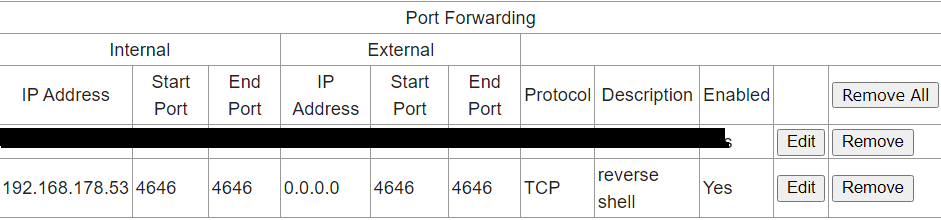
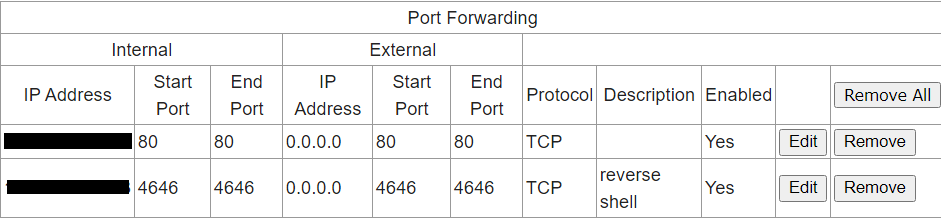
edit

diff --git a/phishing.md b/phishing.md
@@ -19,19 +19,19 @@ en te versturen staat hieronder uitgelegd:<br />
 Allereerst heb ik GoPhish gedownload via het commando ``go get github.com/gophish/gophish``. 
 Als je in de map gaat waar het gedownload is bevindt zich een bestand genaamd ***gophish***, voor deze uit door: ```./gophish```
 in te voeren. In de terminal krijg je te zien dat GoPhish opstart en je hem kan bereiken op http://127.0.0.1:3333. <br /> 
-<img src="./images/phishing/GoPhish_adminpage.PNG" alt="Inlogpagina GoPhish" class="phish_img_login">
+<img src="./images/phishing/GoPhish_adminpage.PNG" alt="Inlogpagina GoPhish" class="phish_img_login" style="align:left;">
 
 **Stap 2**<br />
 Hierna heb ik de User Groups aangemaakt in de webinterface. De User en Groups zijn eigenlijk de daadwerkelijke ontvangers van de phishing mail.
 De ontvanger(s) is in dit geval mijn eigen gmail om te kunnen testen dat deze aankomt.
-<img src="./images/phishing/Users.PNG" alt="Users GoPhish" class="phish_img">
+<img src="./images/phishing/Users.PNG" alt="Users GoPhish" class="phish_img" style="align:left;">
 
 **Stap 3**<br />
 Stap 3 is de stap waarin de "Landing page" wordt gemaakt, ook wel de phishing site genoemd. Deze site is de site waar het slachtoffer
 op kan klikken in de e-mail, echter is dit dus de phishing site. Om dit zo echt mogelijk te laten lijken ben ik gegaan voor Facebook. Waarom ik hiervoor gekozen hebt wordt in
 de volgende stap duidelijk gemaakt. <br /> 
 Hieronder is de (geïmporteerde) phishing website te zien:
-<img src="./images/phishing/landing_page_fb.PNG" alt="Landing page GoPhish" class="phish_img">
+<img src="./images/phishing/landing_page_fb.PNG" alt="Landing page GoPhish" class="phish_img" style="align:left;">
 
 **Stap 4**<br />
 De e-mail die ik zelf gemaakt heb is een e-mail die hoort bij de "Landing page". Het scenario hiervan is als volgt:
@@ -39,7 +39,7 @@ Het slachtoffer krijgt een e-mail binnen waarin staat dat er een recente inlogpo
 Het slachtoffer schiet hierbij in paniek en gaat naar de aangegeven ondersteuningswebsite om het wachtwoord te wijzigen. Echter, moet 
 diegene hier wel voor ingelogd zijn. Daardoor komt de slachtoffer op de inlogpagina zoals in stap 3 te zien is en vult uit paniek 
 zijn/haar gegevens in en vóila de gegevens komen in GoPhish tevoorschijn.
-<img src="./images/phishing/e_mail.PNG" alt="Campaign GoPhish" class="phish_img">
+<img src="./images/phishing/e_mail.PNG" alt="Campaign GoPhish" class="phish_img" style="align:left;">
 
 **Stap 5**<br />
 Om een e-mail te kunnen verzenden moet er wel eerst een server worden opgezet om vanuit te kunnen versturen.
@@ -50,11 +50,11 @@ ook zien wat de headers, spam rate enzovoort is.
 Om de definitieve mail te kunnen versturen moet de "Campaign" aangemaakt worden. De Campaign zorgt ervoor dat
 de e-mail wordt verstuurd met alle bij behorende configuraties. Via deze Campaign kunnen allerlei resultaten van de phishing mail bekeken worden.
 Hieronder is te zien hoe de Campaign gemaakt kan worden, De URL is de url waar de slachtoffer naartoe wordt gestuurd.
-<img src="./images/phishing/Campaign.PNG" alt="Campaign GoPhish" class="phish_img">
+<img src="./images/phishing/Campaign.PNG" alt="Campaign GoPhish" class="phish_img" style="align:left;">
 
 **Resultaat**<br />
 Alle gegevens omtrent de e-mail kunnen bekeken worden in de Campaign. Hieronder is te zien hoe het resultaat is als de data gesubmit is:
-<img src="./images/phishing/credentials_shown.PNG" alt="Campaign GoPhish" class="phish_img">
+<img src="./images/phishing/credentials_shown.PNG" alt="Campaign GoPhish" class="phish_img" style="align:left;">
 Zoals je ziet kan je ook live volgen of het slachtoffer de e-mail geopend heeft, de link geklikt heeft, gegevens heeft ingevuld etc.
 
 ***Notitie***<br />
@@ -69,14 +69,14 @@ Ter verbetering van de phishing mail zou het mooi zijn als:
 
 **Bypass filter** <br />
 Het is gelukt om de filter te bypassen en mijn phishing mail in de inbox te krijgen, van notabene gmail:
-<img src="./images/phishing/Inbox.PNG" alt="Inbox gmail" class="phish_img">
+<img src="./images/phishing/Inbox.PNG" alt="Inbox gmail" class="phish_img" style="align:left;">
 
 Bovendien heb ik de phishing mail verbeterd en ziet deze er nu zo uit:
-<img src="./images/phishing/e-mail2.PNG" alt="E-mail nieuw" class="phish_img">
+<img src="./images/phishing/e-mail2.PNG" alt="E-mail nieuw" class="phish_img" style="align:left;">
 
 Echter, is het niet mogelijk om het Message-Id en de From e-mail headers aan te passen, zodat dit niet verdacht is. Hieronder
 kan je zien dat er namelijk in de bron van de e-mail staat dat het vanuit een kali machine verstuurd is d.m.v. GoPhish:
-<img src="./images/phishing/headers.PNG" alt="E-mail headers" class="phish_img">
+<img src="./images/phishing/headers.PNG" alt="E-mail headers" class="phish_img" style="align:left;">
 
 ### Bussiness Case
 Ik heb onderzoek gedaan naar de disclaimer of breed gezegd de *Business case* van GoPhish. Nergens kreeg ik gevonden
@@ -104,17 +104,17 @@ Dit script ziet er als volgt uit:
 
 
 In dit script moet dan worden aangegeven wat de host is waarop geluisterd wordt en wat de payload is, dit gebeurt via het [shellter](https://www.shellterproject.com/) programma:
-<img src="./images/SET/shellter.PNG" alt="pdf" class="phish_img">
+<img src="./images/SET/shellter.PNG" alt="pdf" class="phish_img" style="align:left;">
 
 
 De URL die in het script te zien is een PDF, deze PDF is een bestand die wordt geopend in de browser. Deze PDF moet dus een bestand zijn die de lezer aanspreekt, want waarom
 zou je hem anders downloaden? In dit geval heb ik gekozen voor de richting "investeren":
-<img src="./images/SET/pdf_open.PNG" alt="pdf" class="phish_img">
+<img src="./images/SET/pdf_open.PNG" alt="pdf" class="phish_img" style="align:left;">
 
 
 In deze PDF zit dus stiekem een executable die op de achtergrond wordt uitgevoerd als de slachtoffer hem opent. Zodra deze gedownload is door de slachtoffer ziet hij 
 het volgende in de verkenner:
-<img src="./images/SET/pdf_in_verkenner.png" alt="pdf" class="phish_img">
+<img src="./images/SET/pdf_in_verkenner.png" alt="pdf" class="phish_img" style="align:left;">
 
 
 Dit bestand is gemaakt middels de tweede video in het vorige kopstuk. Hiermee kon ik van een executable en een image een combinatie maken. Deze combinatie leidde tot 
@@ -122,24 +122,33 @@ het bovenstaande bestand. Dit bestand is een pdf met daarin dus de executable, h
 slachtoffer het bestand opent, zie onderstaande afbeelding.
 
 
-<img src="./images/SET/rootshell_reverse_evil_pdf.PNG" alt="E-mail headers" class="phish_img">
+<img src="./images/SET/rootshell_reverse_evil_pdf.PNG" alt="E-mail headers" class="phish_img" style="align:left;">
 <br />
 
 
 Helaas blokte gmail al mijn pogingen.. Mijn e-mail heb ik ook via een SMTP server weten te versturen, hierin zag je wel de e-mail staan. Als ik deze server open op de Windows
-machine en de e-mail bekijk, kan ik wel het bestand uitvoeren wat leidt tot een rootshell. 
-<img src="./images/SET/gmail_blocks.PNG" alt="E-mail headers" class="phish_img">
+machine en de e-mail bekijk, kan ik wel het bestand uitvoeren wat leidt tot een shell. 
+<img src="./images/SET/gmail_blocks.PNG" alt="E-mail headers" class="phish_img" style="align:left;">
 
 
 <br />
 De SMTP server:
 <br />
-<img src="./images/SET/smtp.PNG" alt="E-mail headers" class="phish_img">
+<img src="./images/SET/smtp.PNG" alt="E-mail headers" class="phish_img" style="align:left;">
 
 
 ### Netwerk tekening + uitleg
-
-<img src="./images/SET/router_rule.png" alt="pdf" class="phish_img">
+Ter verduidelijking van het phishing project, heb ik er een netwerk diagram bij gemaakt:
+<img src="./images/SET/netwerk.PNG" alt="pdf" class="phish_img" style="align:left;">
+In de diagram is te zien dat de aanvaller (ik) een kali linux machine heeft waarop een GoPhish server draait. 
+Hier maakt de aanvaller dan een pagina aan die dient als de phishing site, deze staat dan op de GoPhish server.
+Om ervoor te zorgen dat het slachtoffer bij deze site kan, wordt poort 80 van de kali linux machine geforward.
+Als er dus ene request wordt gemaakt naar het IP-adres van de router, wordt er doorverwezen naar die van de kali linux machine. Bovendien is er een regel in de router
+die ervoor zorgt dat er een reverse shell opgezet kan worden. De request naar de router wordt dan doorverwezen naar de poort van mijn kali linux machine.
+<br />
+<br />
+De regels in de router zijn hieronder te zien:
+<img src="./images/SET/router_rule.png" alt="pdf" class="phish_img" style="align:left;">
 
 
 
